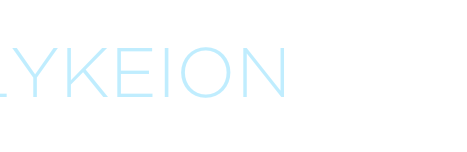
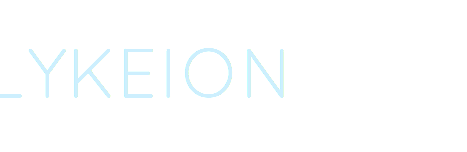
Final tweaks to layout, font is now Arial/Georgia

Changed region(s): [[0.0, 0.2895, 0.5696, 0.6579], [0.5996, 0.3158, 0.6296, 0.5789]]

diff --git a/sites/all/themes/fa/css/fa.css b/sites/all/themes/fa/css/fa.css
@@ -12,7 +12,7 @@
 #fa-customers {
   font-size: 12px;
   float: left;
-  padding-left: 100px;
+  padding-left: 115px;
   margin-left: 62px;
 }
 
@@ -164,12 +164,10 @@
 /**
  * Social buttons
  */
-
 .fa-social-buttons{
   float: left;
   padding-bottom: 10px;
 }
-
 
 /**
  * Text "Ennakkotehtävä" visible in
@@ -180,26 +178,18 @@
 }
 
 /**
- * Font settings, all in one place to make
- * it possible to disable them in windows
+ * Font settings, all in one place
  */
 body, #user-register-form .description,
 #edit-mailchimp-lists-mailchimp-filosofian-akatemia-newsletterff-title,
 #mailchimp-lists-user-subscribe-form-filosofian-akatemia-newsletter .description,
 #user-profile-form .description,
-#user-profile-form #edit-fboauth{
-  font-family: 'ITC Slimbach Std';
+#user-profile-form #edit-fboauth,
+.page-node #content a{
+  font-family: "Georgia";
 }
 
-body.win, 
-.win #user-register-form .description,
-.win #edit-mailchimp-lists-mailchimp-filosofian-akatemia-newsletterff-title,
-.win #mailchimp-lists-user-subscribe-form-filosofian-akatemia-newsletter .description,
-.win #user-profile-form .description,
-.win #user-profile-form #edit-fboauth{
-  font-family: 'Georgia', 'Times';
-}
-
+#fa-front-heading,
 #fa-some, #fa-some a,
 .fa-person, .fa-product, .fa-research,
 .node .node-title,
@@ -210,31 +200,13 @@ strong,.title, .menu,
 #user-profile-form #edit-fboauth label,
 .webform-client-form .form-item label
 {
-  font-family: 'Gotham';
+  font-family: "Arial";
 }
 
-.win #fa-some, 
-.win #fa-some a,
-.win .fa-person, 
-.win .fa-product, 
-.win .fa-research,
-.win .node .node-title,
-.win #fa-address, 
-.win #fa-customers,
-.win .fa-title, 
-.win .fa-small-title,
-.win strong, 
-.win .title, 
-.win .menu,
-.win #user-pass, 
-.win #user-profile-form,
-.win #user-profile-form #edit-fboauth label,
-.win .webform-client-form .form-item label
-{
-  font-family: 'Trebuchet MS', 'Helvetica';
+.page-node #content a {
+  font-weight: bold;
 }
 
-#fa-front-heading,
 .fa-page-title,
 .menu a.active , .menu a.active-trail,
 .page-user-register #page-title, .page-user-password #page-title,
@@ -245,26 +217,13 @@ strong,.title, .menu,
 .webform-client-form #edit-actions input,
 #user-pass #edit-actions input,
 #user-profile-form #edit-actions input,
-.facebook-action-deauth
+.facebook-action-deauth,
+.page-node #content a
 {
-  font-family:'Gotham Book';
+  font-family:"Arial";
+  font-weight:bold;
 }
 
-.win #fa-front-heading,
-.win .fa-page-title,
-.win .menu a.active , 
-.win .menu a.active-trail,
-.win .page-user-register #page-title, 
-.win .page-user-password #page-title,
-.win #block-user-login #edit-actions input,
-.win #user-login #edit-actions input,
-.win #user-register-form #edit-actions input,
-.win #mailchimp-lists-user-subscribe-form-filosofian-akatemia-newsletterff #edit-submit,
-.win #mailchimp-lists-user-subscribe-form-filosofian-akatemia-newsletter #edit-submit,
-.win .webform-client-form #edit-actions input,
-.win #user-pass #edit-actions input,
-.win #user-profile-form #edit-actions input,
-.win .facebook-action-deauth
-{
-  font-family:'Helvetica';
+.menu-block-1 a.active, .menu-block-1 a.active-trail{
+  font-weight:normal;
 }
